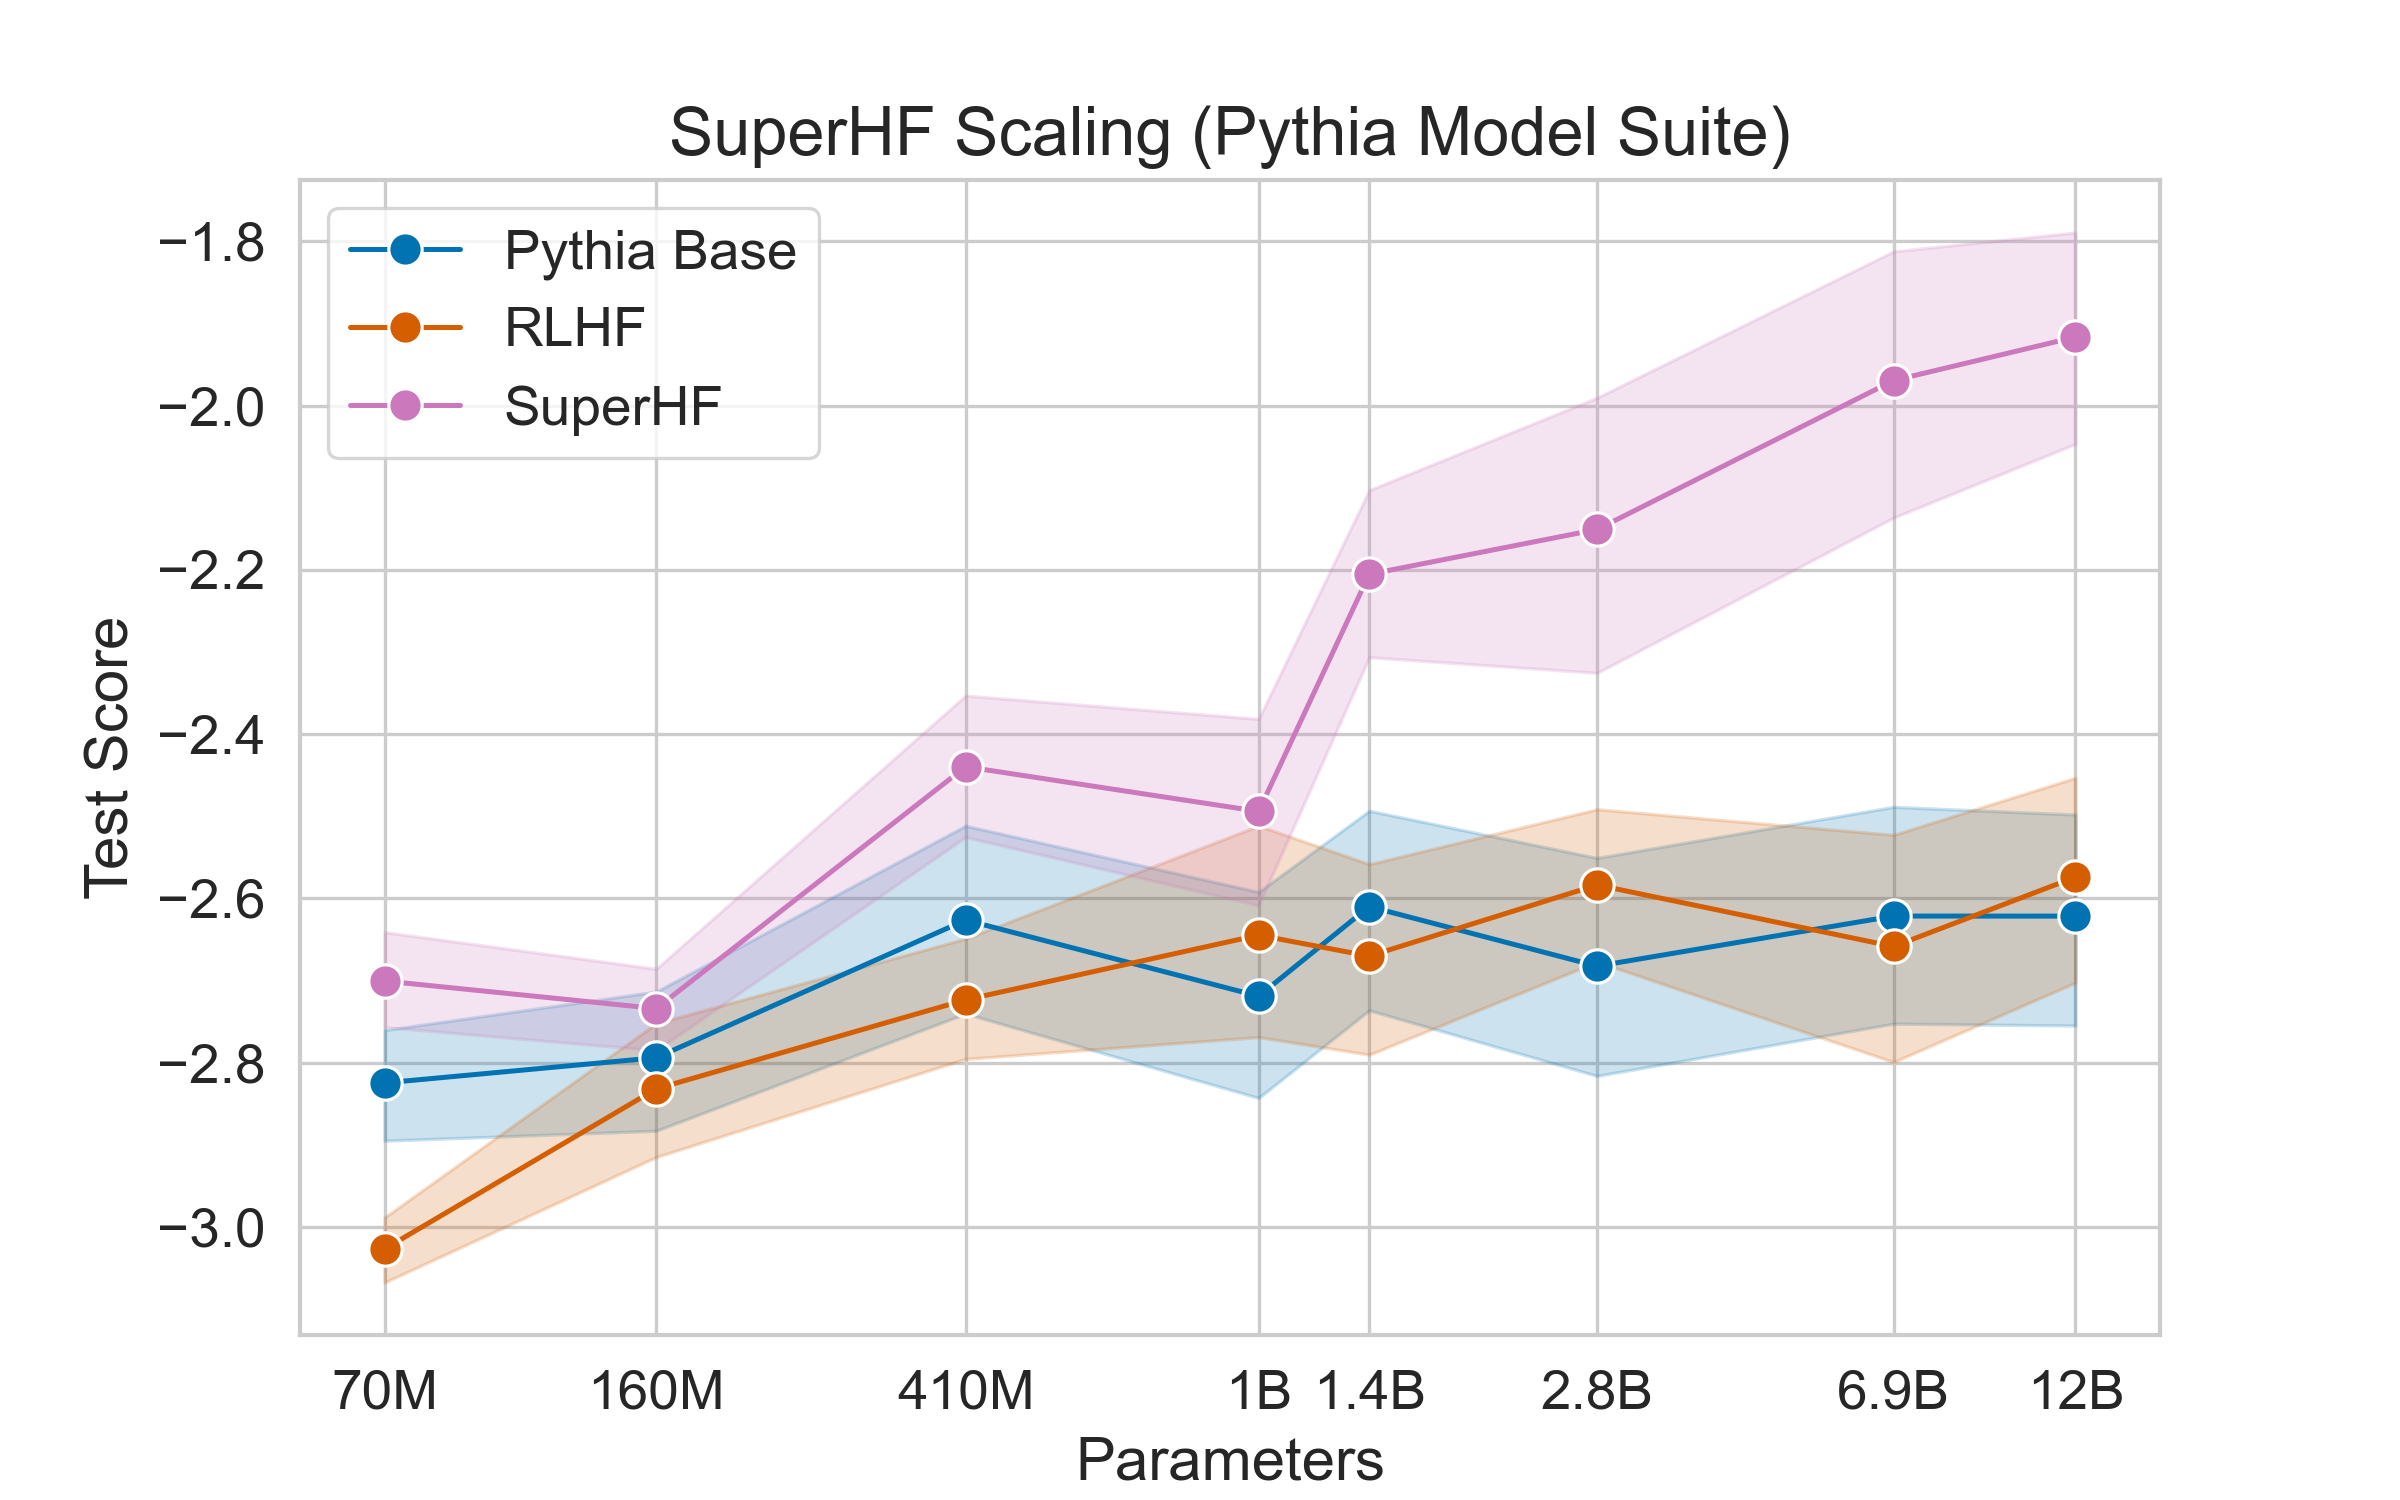
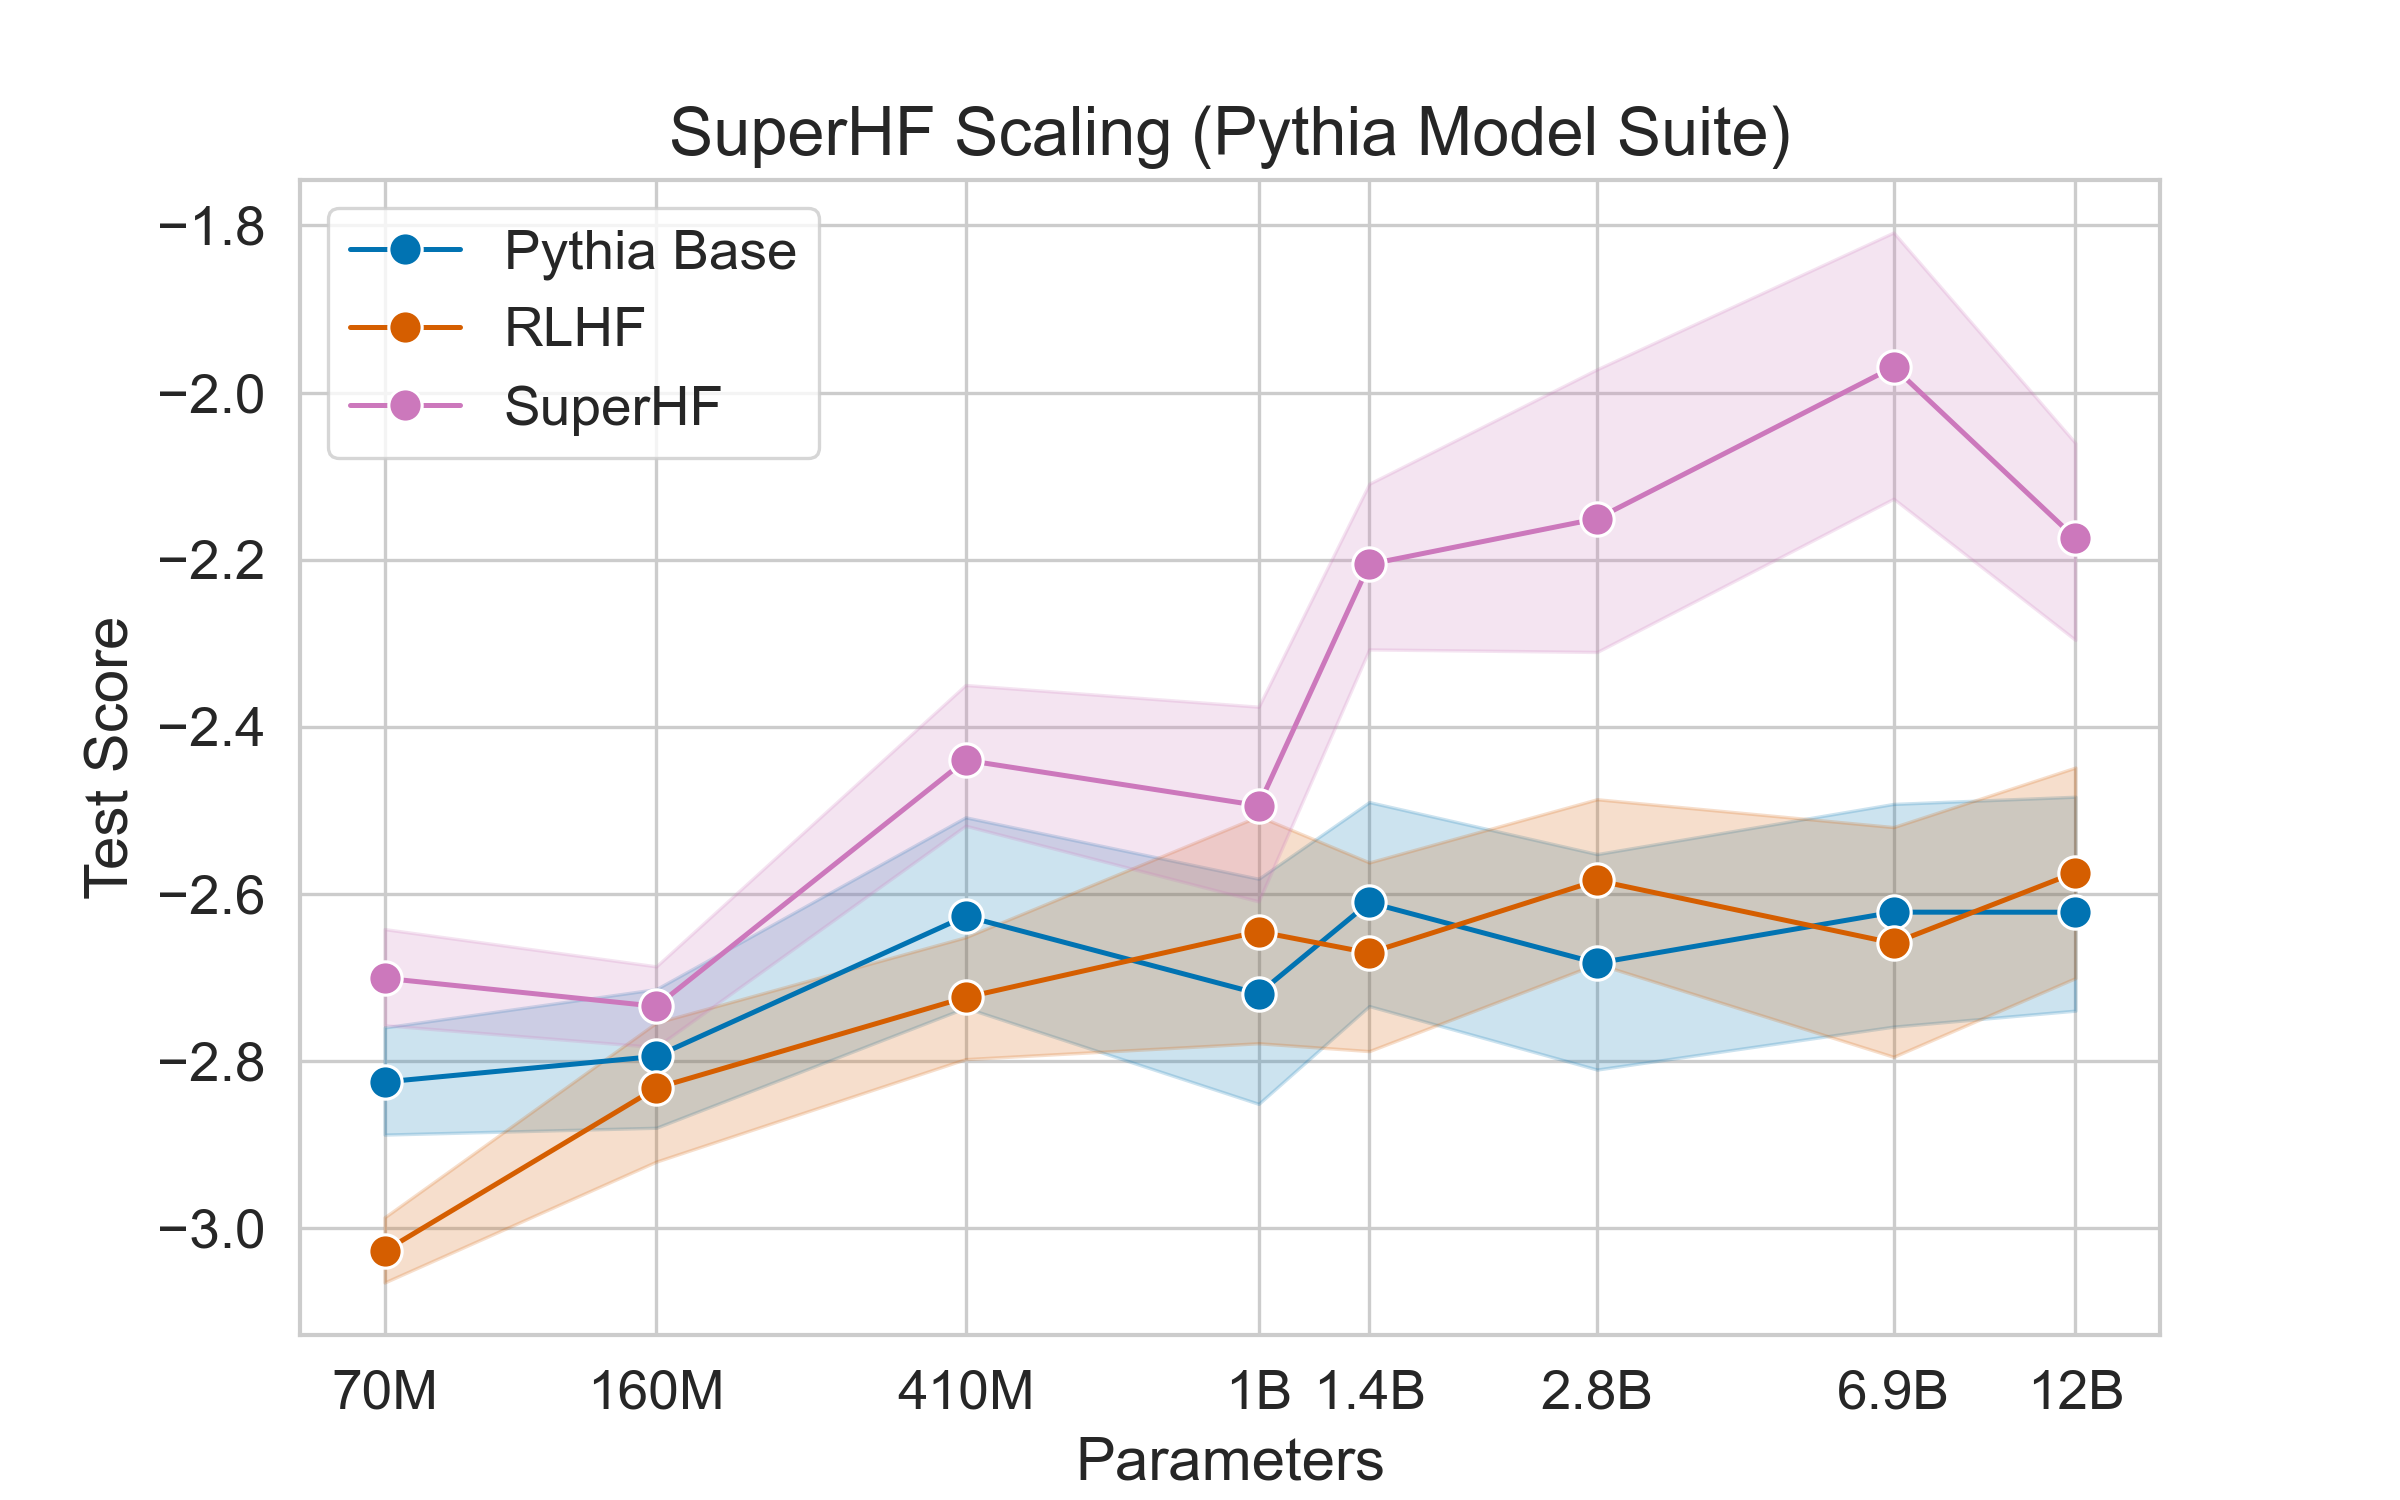
swap to 3e-5 12B SHF

diff --git a/charts/model_size.py b/charts/model_size.py
@@ -31,8 +31,8 @@ def main() -> None:
         "shf-pythia-1.4b.json",
         "shf-pythia-2.8b.json",
         "shf-pythia-6.9b.json",
-        # "shf-pythia-12b.json",  # 3e-5 LR
-        "shf-pythia-12B@v2.json",  # 5e-5 LR
+        "shf-pythia-12b.json",  # 3e-5 LR
+        # "shf-pythia-12B@v2.json",  # 5e-5 LR
         "pythia-70m-deduped.json",
         "pythia-160m-deduped.json",
         "pythia-410m-deduped.json",
